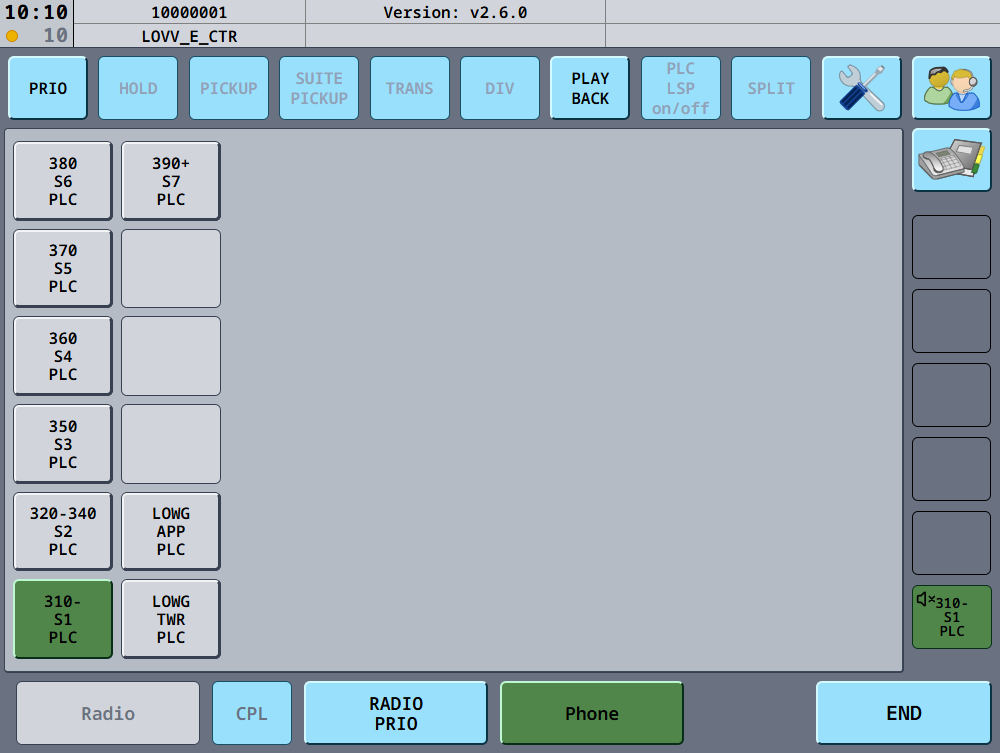
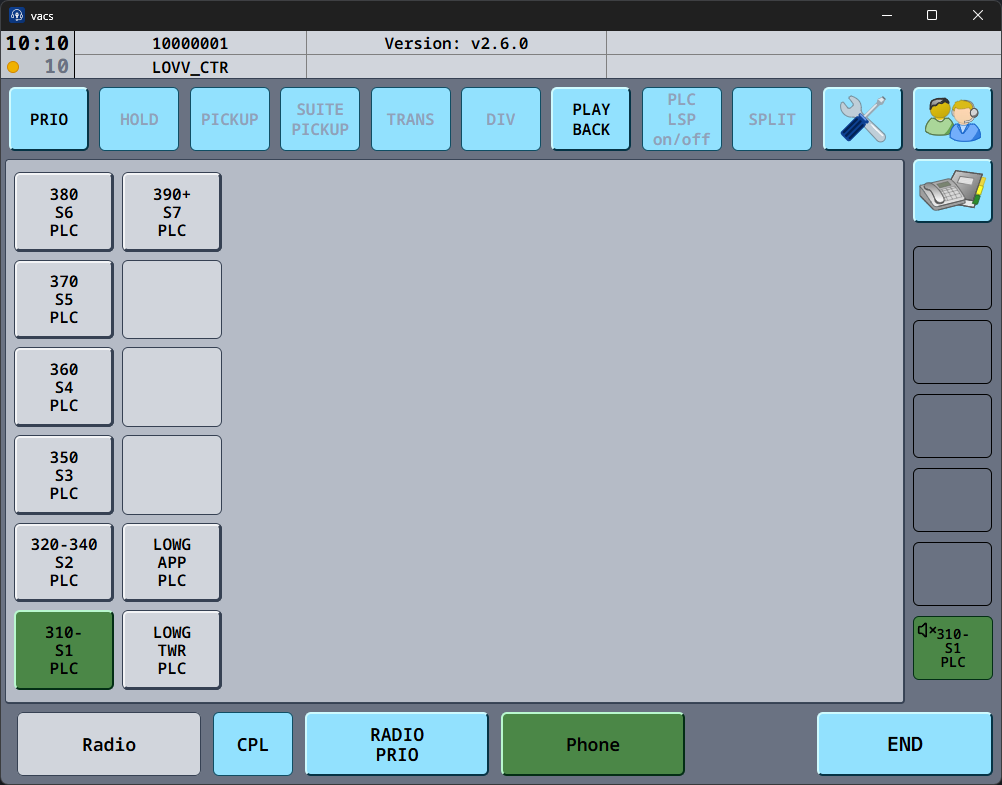
docs: cover the Wayland shortcut fixes in the 2.6.0 notes (#61)
* docs: cover the Wayland shortcut fixes in the 2.6.0 notes

* docs: do not claim the radio key field refreshes while open

Nothing pushes portal shortcut changes to the frontend, so the field
holds the value it read when the dialog opened.

* docs: scope the radio PTT fix claim to GNOME

Hyprland's portal never reports trigger descriptions, so a dedicated
radio shortcut cannot be detected there and the radio keeps following the
call key.

* docs: note the radio stuck transmitting fix in the 2.6.0 notes

* docs: note that dismissing the Wayland shortcut request disables hotkeys

* build(deps): npm audit fix

* docs: show the Wayland keybind pages

Adds images of the Hotkeys Config and Transmit Config as they look on a
Wayland session, where the keys come from the desktop environment and the
System Shortcuts button appears next to Joystick Devices.

* update degraded call screenshot

---------

Changed region(s): [[0.0, 0.0, 1.0, 1.0]]

diff --git a/docs/settings/hotkeys.md b/docs/settings/hotkeys.md
@@ -158,5 +158,23 @@ Global bindings, meaning bindings that work while another application is focused
 :::note[Linux with Wayland]
 Wayland does not allow an application to observe the keyboard while it is not focused. vacs therefore registers its actions as **system shortcuts** with your desktop environment, and you assign the actual keys there. The binding field shows the key your desktop has assigned in grey and cannot be edited in vacs; the **System Shortcuts** button next to **Joystick Devices** opens your desktop's shortcut settings.
 
+Keys you assign, change or clear in your desktop settings take effect straight away, without restarting vacs.
+
+The first time vacs runs, your desktop asks whether to let it register these shortcuts. If you dismiss that dialog, none of them are registered and vacs hotkeys stay inactive, even after you assign keys in your desktop settings. Restart vacs to get the request again.
+
 Joystick buttons are not affected by this restriction and are captured directly in vacs. Binding a joystick button to an action **replaces** the desktop shortcut for that action, and removing the button restores it.
 :::
+
+This is what the Hotkeys Config looks like on a Wayland session: the keys come from the desktop environment and are shown in grey, and the **System Shortcuts** button sits next to **Joystick Devices**.
+
+<img
+src="/img/settings/HotkeysConfigPage-wayland.png"
+alt="vacs Hotkeys Config on Wayland, with desktop-managed keys and the System Shortcuts button"
+style={{
+    width: "45%",
+    display: "block",
+    margin: "1.5rem auto",
+    borderRadius: "8px",
+    boxShadow: "0 4px 16px rgba(0,0,0,0.08)"
+  }}
+/>

diff --git a/docs/settings/transmit.md b/docs/settings/transmit.md
@@ -118,6 +118,22 @@ Next to the Radio Integration dropdown is a key-capture field for your **Radio P
 | Push-to-Talk | Enabled, **optional** | Leave it empty to reuse your call PTT key - the field then shows that key in **light grey** as a placeholder. Capture a different key to make the radio operate independently of the call key. |
 | Push-to-Mute | **Disabled**, forced to the call key | Always shows (and uses) the same key as your call Push-to-Mute key. A distinct PTM for calls vs. radio is not supported, so the capture field is locked. |
 
+:::note[On Wayland, the key comes from your desktop settings]
+Keyboard keys are assigned in your desktop environment rather than captured in vacs, so "leave it empty" means leaving the **Radio Push-to-talk** system shortcut unassigned. Everything else in this table works the same way. If you change the shortcut while this dialog is open, reopen it to see the new key. See [Platform support](/settings/hotkeys#platform-support) on the Hotkeys page.
+
+<img
+src="/img/settings/Transmit-DifferentPTT-TrackAudio-wayland.png"
+alt="vacs Transmit Config on Wayland, with desktop-managed keys and the System Shortcuts button"
+style={{
+    width: "80%",
+    display: "block",
+    margin: "1.5rem auto",
+    borderRadius: "8px",
+    boxShadow: "0 4px 16px rgba(0,0,0,0.08)"
+  }}
+/>
+:::
+
 With **Voice Activation**, there is no call key to fall back to, so the field starts unbound and shows **"Not bound"** until you assign one explicitly:
 
 <img
